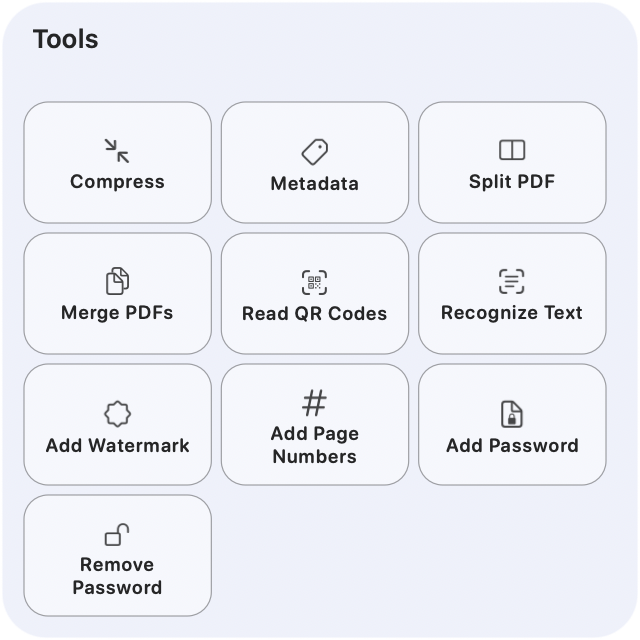
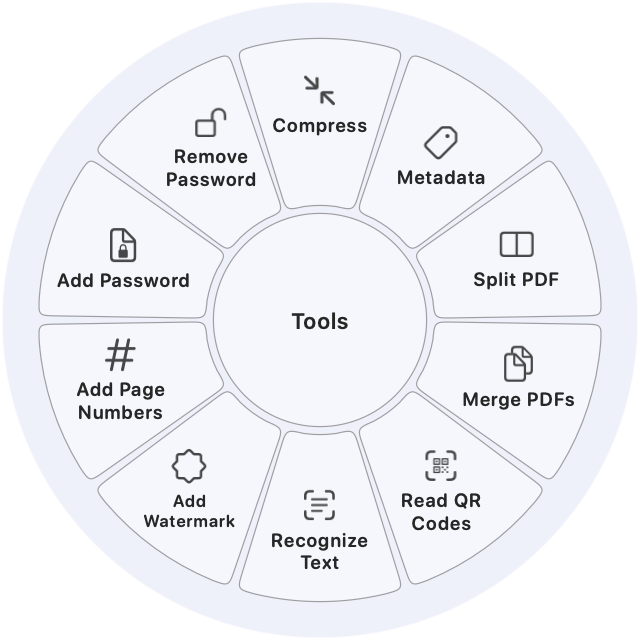
Show the round wheel in the README and site screenshots

diff --git a/docs/tr/index.html b/docs/tr/index.html
@@ -2,7 +2,7 @@
 <html lang="tr"><head><meta charset="utf-8"><meta name="viewport" content="width=device-width,initial-scale=1">
 <meta http-equiv="Content-Security-Policy" content="default-src 'none'; img-src 'self' blob: data:; media-src 'self' blob:; style-src 'self' 'unsafe-inline'; script-src 'self'; connect-src 'self' blob:; base-uri 'none'; form-action 'none'">
 <meta name="description" content="Filevero: açık kaynaklı yerel dosya dönüştürme, düzenleme, web indirme ve sürükleme çarkı. Tüm özellikler, formatlar ve kısayollar.">
-<title>Filevero — Her dosya, ihtiyacın olan biçimde</title><link rel="icon" href="../assets/filevero.png"><link rel="stylesheet" href="../assets/site.css?v=b6ede1284930"><link rel="stylesheet" href="../assets/playground.css?v=a5f6a135728b"><script src="../assets/vendor/pdf-lib.min.js" defer></script><script src="../assets/playground.js?v=a5f6a135728b" defer></script></head>
+<title>Filevero — Her dosya, ihtiyacın olan biçimde</title><link rel="icon" href="../assets/filevero.png"><link rel="stylesheet" href="../assets/site.css?v=b6ede1284930"><link rel="stylesheet" href="../assets/playground.css?v=7027b488dbf4"><script src="../assets/vendor/pdf-lib.min.js" defer></script><script src="../assets/playground.js?v=7027b488dbf4" defer></script></head>
 <body><a class="skip" href="#main">İçeriğe geç</a><header><a class="brand" href="#"><img src="../assets/filevero.png" alt="" width="42" height="42">Filevero</a><nav aria-label="Ana gezinme"><a href="#playground">Dene</a><a href="#features">Özellikler</a><a href="#formats">Formatlar</a><a href="#shortcuts">Kısayollar</a><a href="../index.html">EN</a></nav></header>
 <main id="main"><section class="hero"><span class="eyebrow">MAC + WINDOWS · ÜCRETSİZ & AÇIK KAYNAK</span><h1>Her dosya.<br><em>İhtiyacın olan biçimde.</em></h1><p class="intro">Bir dosya sürükle. Bir tuşa bas. İstediğin hale getir. Dönüştür, kırp, düzenle; işine kaldığın yerden devam et.</p><div class="hero-actions"><a class="button primary" href="#download">Filevero’yu indir ↓</a><a class="button secondary" href="#playground">Tarayıcıda dene ↗</a></div><p class="subtle">Dosyaların sende kalır. Yerel işlem. Abonelik yok.</p></section>
 <section id="playground" aria-label="Etkileşimli Filevero demosu"><div class="live-loading">Demo masaüstün hazırlanıyor…</div><noscript><p class="demo-noscript">Etkileşimli demo için JavaScript’i aç. Aşağıdaki gerçek kullanım kaydını da izleyebilirsin.</p></noscript></section>

diff --git a/docs/index.html b/docs/index.html
@@ -2,7 +2,7 @@
 <html lang="en"><head><meta charset="utf-8"><meta name="viewport" content="width=device-width,initial-scale=1">
 <meta http-equiv="Content-Security-Policy" content="default-src 'none'; img-src 'self' blob: data:; media-src 'self' blob:; style-src 'self' 'unsafe-inline'; script-src 'self'; connect-src 'self' blob:; base-uri 'none'; form-action 'none'">
 <meta name="description" content="Filevero: open-source local file conversion, editing, web downloads and a playful drag wheel. All features, formats and keyboard shortcuts.">
-<title>Filevero — Every file, in the shape you need</title><link rel="icon" href="assets/filevero.png"><link rel="stylesheet" href="assets/site.css?v=b6ede1284930"><link rel="stylesheet" href="assets/playground.css?v=a5f6a135728b"><script src="assets/vendor/pdf-lib.min.js" defer></script><script src="assets/playground.js?v=a5f6a135728b" defer></script></head>
+<title>Filevero — Every file, in the shape you need</title><link rel="icon" href="assets/filevero.png"><link rel="stylesheet" href="assets/site.css?v=b6ede1284930"><link rel="stylesheet" href="assets/playground.css?v=7027b488dbf4"><script src="assets/vendor/pdf-lib.min.js" defer></script><script src="assets/playground.js?v=7027b488dbf4" defer></script></head>
 <body><a class="skip" href="#main">Skip to content</a><header><a class="brand" href="#"><img src="assets/filevero.png" alt="" width="42" height="42">Filevero</a><nav aria-label="Main navigation"><a href="#playground">Try it</a><a href="#features">Features</a><a href="#formats">Formats</a><a href="#shortcuts">Shortcuts</a><a href="tr/index.html">TR</a></nav></header>
 <main id="main"><section class="hero"><span class="eyebrow">MAC + WINDOWS · FREE & OPEN SOURCE</span><h1>Every file.<br><em>In the shape you need.</em></h1><p class="intro">Drag a file. Tap a key. Make it yours. Convert, crop and fine-tune without breaking your flow.</p><div class="hero-actions"><a class="button primary" href="#download">Get Filevero ↓</a><a class="button secondary" href="#playground">Try in your browser ↗</a></div><p class="subtle">Your files stay yours. Local processing. No subscription.</p></section>
 <section id="playground" aria-label="Interactive Filevero demo"><div class="live-loading">Preparing your demo desktop…</div><noscript><p class="demo-noscript">Enable JavaScript to try the interactive playground. You can also watch the recording below.</p></noscript></section>

diff --git a/docs/assets/showcase/README.md b/docs/assets/showcase/README.md
@@ -12,4 +12,4 @@ All images are on-screen captures of Filevero windows, taken with `screencapture
 | `mac-welcome.png` | `welcome.1`: first page of the introduction | Light, Aurora |
 | `mac-window-management-view.png` | `wheel.window`: window arrangement wheel | Dark, Aurora |
 
-Window captures were scaled to at most 1600 pixels wide and saved without metadata. To refresh them, build the app, run a scene with `--hold`, and capture its window by ID.
+The two wheel images (`mac-wheel.png`, `mac-window-management-view.png`) are the UI audit's own renders of the round wheel, with the area outside the circle made transparent. Window captures were scaled to at most 1600 pixels wide and saved without metadata. To refresh them, build the app, run a scene with `--hold`, and capture its window by ID.
